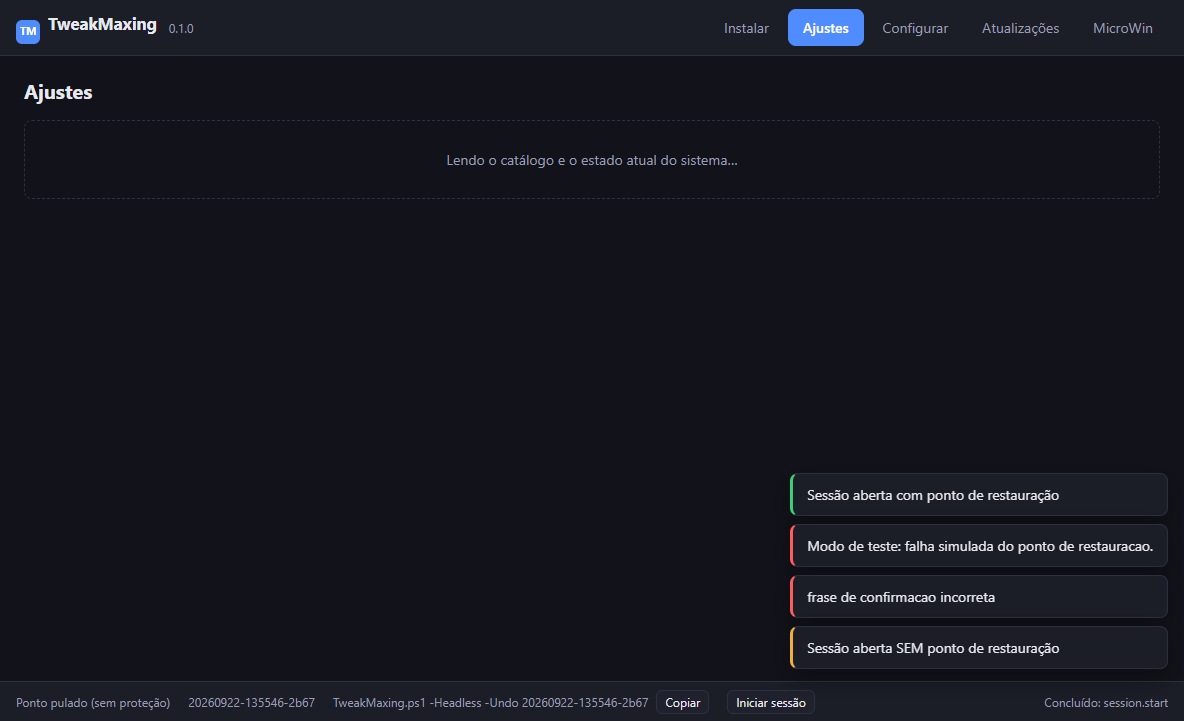
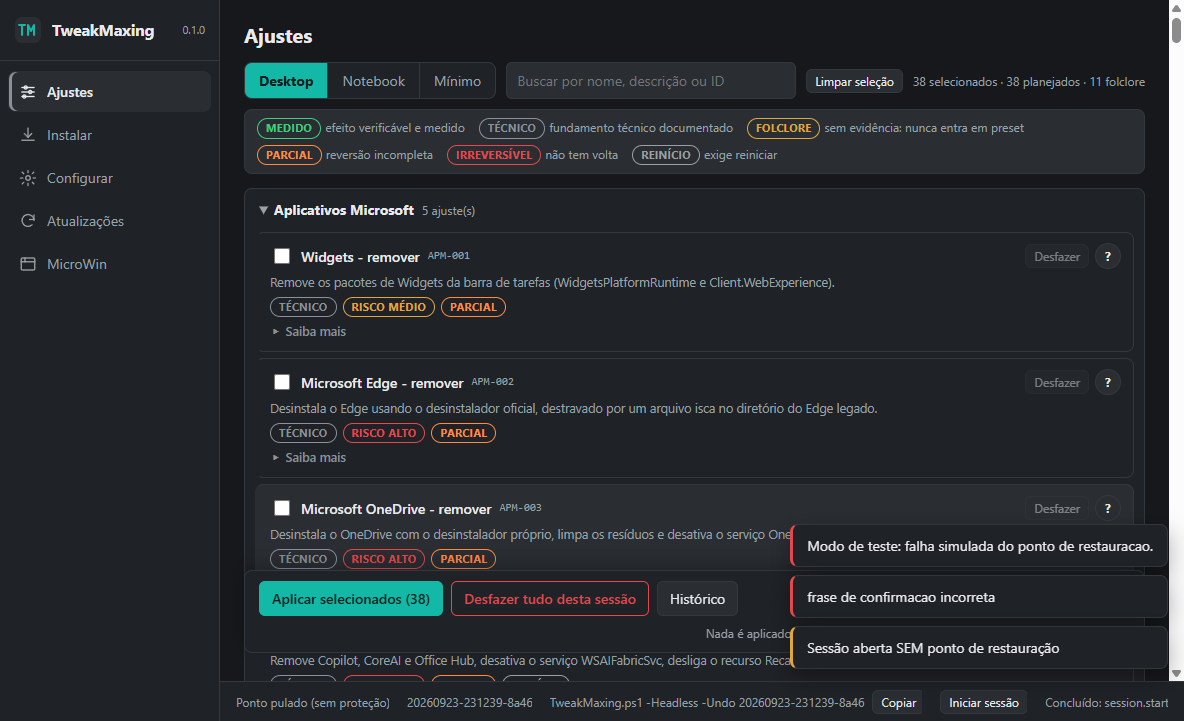
docs: final report, new screenshots, plan done; Configurar reboot badge reads Reinicio

diff --git a/src/web/configure.js b/src/web/configure.js
@@ -108,7 +108,7 @@
 
   function selosRecurso(r) {
     var html = '';
-    if (r.requerReboot) { html += '<span class="selo selo-reboot">Reboot</span>'; }
+    if (r.requerReboot) { html += '<span class="selo selo-reboot">Reinício</span>'; }
     if (r.reversivel === 'parcial') { html += '<span class="selo selo-parcial">Reversão parcial</span>'; }
     if (r.estado === 'desconhecido') { html += '<span class="selo selo-folclore">Estado desconhecido</span>'; }
     return html;

diff --git a/docs/plans/2026-09-23-visual-didatico-logos.md b/docs/plans/2026-09-23-visual-didatico-logos.md
@@ -12,26 +12,26 @@
 
 ### Task 1: Paleta + casca com menu lateral
 **Files:** `src/web/app.css`, `src/web/index.html`, `src/web/configure.css`, `src/web/updates.css`, `src/web/microwin.css`, `src/web/tweaks.css` (só troca de literais de cor, se houver), create `tests/Palette.Tests.ps1`.
-- [ ] Teste Pester primeiro: (a) nenhum literal azul em `src/web/**/*.{css,js,html}` (hex/rgb com matiz 190–260° e saturação > 25%); (b) tokens `--active`, `--active-hover`, `--active-fg`, `--elevated` existem no `:root` escuro e claro; (c) contraste ≥ 4.5 para (fg,bg), (fg,panel), (muted,panel), (active-fg,active), (accent-fg,accent) nos dois temas — ler valores do app.css.
-- [ ] Tokens conforme o spec; `.btn-primary`/switch ligado usam `--active`; `.aba.active` = fundo `--elevated` + barra à esquerda `--accent`; foco `--accent`.
-- [ ] `<header>` → `<aside id="sidebar">` com SVG próprio, `.aba[data-tab]` com ícone SVG inline + rótulo, ordem Ajustes, Instalar, Configurar, Atualizações, MicroWin. Layout: body em grid (aside | main+footer). Colapsa para 64 px < 900 px.
-- [ ] Verificar: `Invoke-Pester tests\Palette.Tests.ps1,tests\Compile.Tests.ps1`; `tests\gui\Test-Shell.ps1` PASS; commit `feat(ui): gray/teal palette and sidebar shell`.
+- [x] Teste Pester primeiro: (a) nenhum literal azul em `src/web/**/*.{css,js,html}` (hex/rgb com matiz 190–260° e saturação > 25%); (b) tokens `--active`, `--active-hover`, `--active-fg`, `--elevated` existem no `:root` escuro e claro; (c) contraste ≥ 4.5 para (fg,bg), (fg,panel), (muted,panel), (active-fg,active), (accent-fg,accent) nos dois temas — ler valores do app.css.
+- [x] Tokens conforme o spec; `.btn-primary`/switch ligado usam `--active`; `.aba.active` = fundo `--elevated` + barra à esquerda `--accent`; foco `--accent`.
+- [x] `<header>` → `<aside id="sidebar">` com SVG próprio, `.aba[data-tab]` com ícone SVG inline + rótulo, ordem Ajustes, Instalar, Configurar, Atualizações, MicroWin. Layout: body em grid (aside | main+footer). Colapsa para 64 px < 900 px.
+- [x] Verificar: `Invoke-Pester tests\Palette.Tests.ps1,tests\Compile.Tests.ps1`; `tests\gui\Test-Shell.ps1` PASS; commit `feat(ui): gray/teal palette and sidebar shell`.
 
 ### Task 2: Card de ajuste didático
 **Files:** `src/web/tweaks.js`, `src/web/tweaks.css`.
-- [ ] Linha compacta: nome + controle; `descricao` em 1 linha; selos (evidência, risco `.selo-risco-baixo|medio|alto`, reversibilidade, `Reinício`); "Saiba mais" (`<details class="tw-mais">`) com os blocos Por quê/Evidência/folclore existentes. Preservar `.tweak[data-id]`, `.estado`, `.tw-undo`, `#tw-<id>`, `#sw-<id>`, `.selo-folclore`, `#tw-*` da barra.
-- [ ] Usar só tokens (nenhum literal de cor). Switch ligado = `--active`.
-- [ ] Verificar: `tests\gui\Test-Tweaks.ps1` PASS; Pester `tests\Bridge.Tweaks.Tests.ps1`; commit `feat(ui): compact didactic tweak cards with Saiba mais`.
+- [x] Linha compacta: nome + controle; `descricao` em 1 linha; selos (evidência, risco `.selo-risco-baixo|medio|alto`, reversibilidade, `Reinício`); "Saiba mais" (`<details class="tw-mais">`) com os blocos Por quê/Evidência/folclore existentes. Preservar `.tweak[data-id]`, `.estado`, `.tw-undo`, `#tw-<id>`, `#sw-<id>`, `.selo-folclore`, `#tw-*` da barra.
+- [x] Usar só tokens (nenhum literal de cor). Switch ligado = `--active`.
+- [x] Verificar: `tests\gui\Test-Tweaks.ps1` PASS; Pester `tests\Bridge.Tweaks.Tests.ps1`; commit `feat(ui): compact didactic tweak cards with Saiba mais`.
 
 ### Task 3: Logos dos apps (back + front)
 **Files:** create `src/functions/install/Get-TmxAppIcon.ps1`, `tests/AppIcon.Tests.ps1`; modify registro de ações da ponte de apps (onde ficam `apps.*`), `src/web/install.js`, `tools/Convert-WinUtilCatalog.ps1` (+ `icon`), `src/config/applications.json` (regerado), `tests/Tools.Convert.Tests.ps1`.
-- [ ] Testes primeiro (contratos do spec §4): ordem cache→exe→site; testMode/offline sem rede (mock de `Invoke-TmxIconDownload` com `-Times 0` só em chamada SÍNCRONA); só https; > 512 KB recusado; saída 64×64 PNG em `<home>\icons\<id>.png`; `apps.icons` recusa > 40 ids e ignora desconhecidos; conversor emite `icon` (null padrão, overlay sobrescreve).
-- [ ] Implementar seguindo os padrões existentes (wrappers mockáveis como em `functions/install/_Wrappers.ps1`, constantes como funções, ASCII puro, job via Start-TmxJob como as outras ações demoradas de apps).
-- [ ] Front: `.app-icone` com iniciais; IntersectionObserver → lotes de 40 → `apps.icons` → `<img width=32 height=32 alt="">`; cache em memória; nunca bloquear a lista. Preservar `#app-<id>`, `.app`, `#app-busca`, `#app-selecionados`, `#app-gerenciadores`.
-- [ ] Verificar: Pester `tests\AppIcon.Tests.ps1,tests\Install.Tests.ps1,tests\Tools.Convert.Tests.ps1,tests\Encoding.Tests.ps1`; `tests\gui\Test-Install.ps1` PASS; commit `feat(install): app logos from installed exe, official site or initials`.
+- [x] Testes primeiro (contratos do spec §4): ordem cache→exe→site; testMode/offline sem rede (mock de `Invoke-TmxIconDownload` com `-Times 0` só em chamada SÍNCRONA); só https; > 512 KB recusado; saída 64×64 PNG em `<home>\icons\<id>.png`; `apps.icons` recusa > 40 ids e ignora desconhecidos; conversor emite `icon` (null padrão, overlay sobrescreve).
+- [x] Implementar seguindo os padrões existentes (wrappers mockáveis como em `functions/install/_Wrappers.ps1`, constantes como funções, ASCII puro, job via Start-TmxJob como as outras ações demoradas de apps).
+- [x] Front: `.app-icone` com iniciais; IntersectionObserver → lotes de 40 → `apps.icons` → `<img width=32 height=32 alt="">`; cache em memória; nunca bloquear a lista. Preservar `#app-<id>`, `.app`, `#app-busca`, `#app-selecionados`, `#app-gerenciadores`.
+- [x] Verificar: Pester `tests\AppIcon.Tests.ps1,tests\Install.Tests.ps1,tests\Tools.Convert.Tests.ps1,tests\Encoding.Tests.ps1`; `tests\gui\Test-Install.ps1` PASS; commit `feat(install): app logos from installed exe, official site or initials`.
 
 ### Task 4: Integração e verificação final (após 1–3)
-- [ ] Suíte Pester completa; 4 testes de GUI; `Compile.ps1` + headless dry-run do artefato (exit 0).
-- [ ] Capturas novas de cada seção em `docs/img/` via agent-browser; grep de azul = 0; contraste pelo Palette.Tests.
-- [ ] Teste manual de ícones na GUI: um app instalado (exe), um via site, um com iniciais.
-- [ ] `docs/togsboost/06-relatorio-final.md`; README (capturas); memória; commit.
+- [x] Suíte Pester completa; 4 testes de GUI; `Compile.ps1` + headless dry-run do artefato (exit 0).
+- [x] Capturas novas de cada seção em `docs/img/` via agent-browser; grep de azul = 0; contraste pelo Palette.Tests.
+- [x] Teste manual de ícones na GUI: um app instalado (exe), um via site, um com iniciais.
+- [x] `docs/togsboost/06-relatorio-final.md`; README (capturas); memória; commit.

diff --git a/docs/togsboost/06-relatorio-final.md b/docs/togsboost/06-relatorio-final.md
@@ -1,0 +1,72 @@
+# Relatório final (Fase 9)
+
+Data: 2026-09-24. Branch `feat/visual-logos`, integrada à `main`.
+
+## O que foi feito
+
+### Sobre o TogsBoost
+
+- A licença é proprietária (`01-licenca-e-tecnologia.md`) e proíbe engenharia reversa, extração de componentes
+  e uso para produto concorrente. Por decisão do usuário, **nada do TogsBoost foi analisado nem copiado**.
+  A pasta dele não foi alterada. Os únicos arquivos lidos foram o `package.json` e o `LICENSE`, justamente para
+  descobrir a licença.
+- As lacunas de funções foram buscadas só em fontes abertas (`05-lacunas.md`). O WinUtil (MIT) já estava
+  importado inteiro, então **nenhuma função nova de sistema** entrou.
+
+### Interface (só layout; o método de execução não mudou)
+
+| Item | Onde |
+|---|---|
+| Paleta cinza e verde-azulado, sem azul, contraste AA nos dois temas | `src/web/app.css` (tokens), `tests/Palette.Tests.ps1` |
+| Menu lateral com logo próprio (monograma TM em SVG) e ícones próprios | `src/web/index.html`, `app.css` |
+| Card de ajuste compacto: o que faz, selos de evidência, risco, reversibilidade e reinício, "Saiba mais" com por quê e evidência | `src/web/tweaks.js`, `tweaks.css` |
+| Interruptores, presets e botão primário ativos em verde-azulado | `tweaks.css`, `configure.css`, `updates.css` |
+| Logos na aba Instalar: exe instalado → ícone do site oficial (cache 64×64 em `%LOCALAPPDATA%\TweakMaxing\icons`) → iniciais | `src/functions/install/Get-TmxAppIcon.ps1`, ação `apps.icons`, `src/web/install.js` |
+
+### Correções que surgiram no caminho
+
+- **Disputa pelo slot único de job (problema que já existia antes):** clicar em "Iniciar sessão" enquanto as abas
+  carregavam dava "já existe um trabalho em andamento", e a tela dizia que o ponto de restauração tinha falhado.
+  Agora `tmx.bridge.callComEspera` espera até 30 s. Ele só repete quando a recusa é essa, e é seguro repetir
+  porque nesse caso nenhum job chegou a ser criado. É usado por todas as ações de usuário e pelo `session.start`.
+- **Logos sem atrapalhar o uso:**
+  - Um lote de ícones por vez, só quando não há ação do usuário esperando.
+  - Orçamento absoluto de 8 s por lote.
+  - Download endurecido:
+    - só https, com redirect seguido à mão (no máximo 3 saltos);
+    - bloqueio de IP privado ou loopback, IPv4 e IPv6;
+    - no máximo 512 KB;
+    - no máximo 1024 px por lado, para evitar decompression bomb.
+  - Cache negativo de 7 dias só quando não há ícone de verdade, nunca por falha de rede.
+- **Testes de GUI:**
+  - O Test-Updates passou a limpar a chave de teste dele (antes, rodadas anteriores faziam a política já aparecer aplicada).
+  - A busca "firefox" no Test-Install passou a comparar com o catálogo real.
+- **Catálogo de apps:** descrições de todos os 236 apps em pt-BR (commit anterior desta sessão).
+
+## O que ficou de fora e por quê
+
+| Item | Motivo |
+|---|---|
+| Funções do TogsBoost | A licença proíbe a análise necessária para conhecê-las |
+| Descrição da organização de menu do TogsBoost (Fase 4) | Análise competitiva, proibida pela licença; a organização adotada é nossa (menu lateral pedido pelo usuário) |
+| Tempo de DNS dentro do orçamento de ícones | O `HttpWebRequest` não limita a resolução de nome; está documentado no código |
+| Tema claro com identidade própria | O tema claro só trocou o azul por cinza e verde-azulado escuro |
+
+## Validação
+
+- Pester: 839 passaram, 0 falharam, 1 pulado (DLL do SDK já presente).
+- GUI com agent-browser (Shell, Ajustes, Instalar, Configurar, Atualizações, MicroWin e Sessão): os 7 testes passaram.
+- Artefato compilado: `Compile.ps1` gera 2,36 MB ASCII. Executado como o `iex` executa
+  (`& ([scriptblock]::Create(...)) -Headless -Preset notebook -DryRun`), sai com código 0.
+  A GUI do artefato compilado abre com o layout novo (verificado por CDP).
+- Logos: ícone extraído do exe instalado (AnyDesk), ícone do site oficial (7-Zip, download real fora do modo de
+  teste) e iniciais para os demais.
+- Busca por azul: `tests/Palette.Tests.ps1` varre `src/web/**` (css, js e html); não sobrou nenhum literal azul.
+- Capturas: `docs/img/*.png`.
+
+## Como desfazer
+
+- **Interface:** reverter o merge da branch `feat/visual-logos`. O layout é só HTML, CSS e JS em `src/web`, e nenhum dado do
+  usuário depende dele.
+- **Logos:** apagar `%LOCALAPPDATA%\TweakMaxing\icons` (é só cache). Nenhuma chave de registro é escrita pelos logos.
+- Nenhuma função nova altera o sistema, então não há ajuste novo para desfazer; o Desfazer dos ajustes existentes não mudou.
